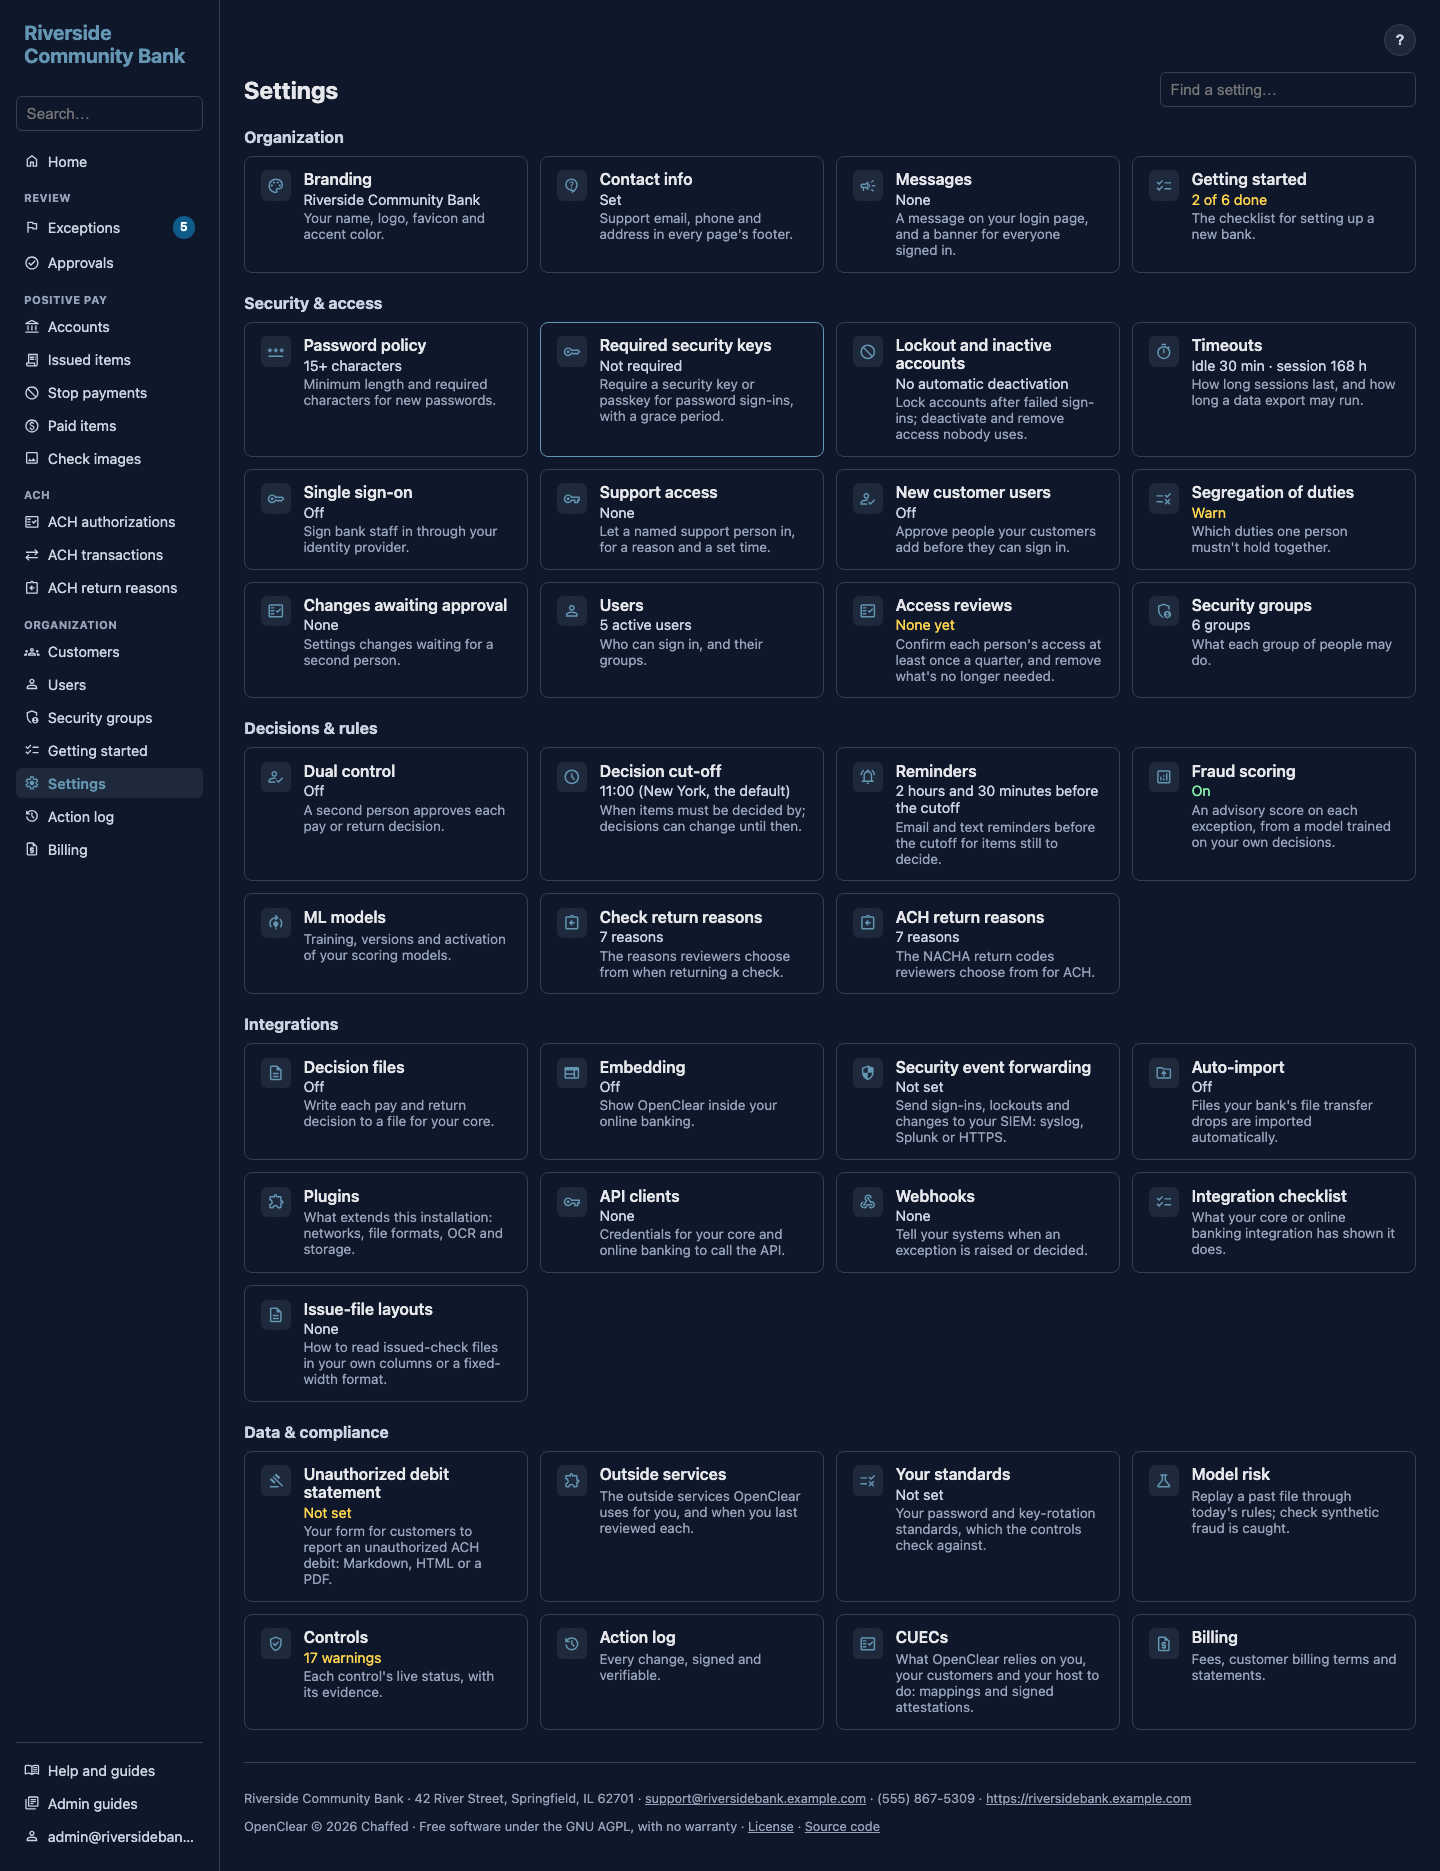
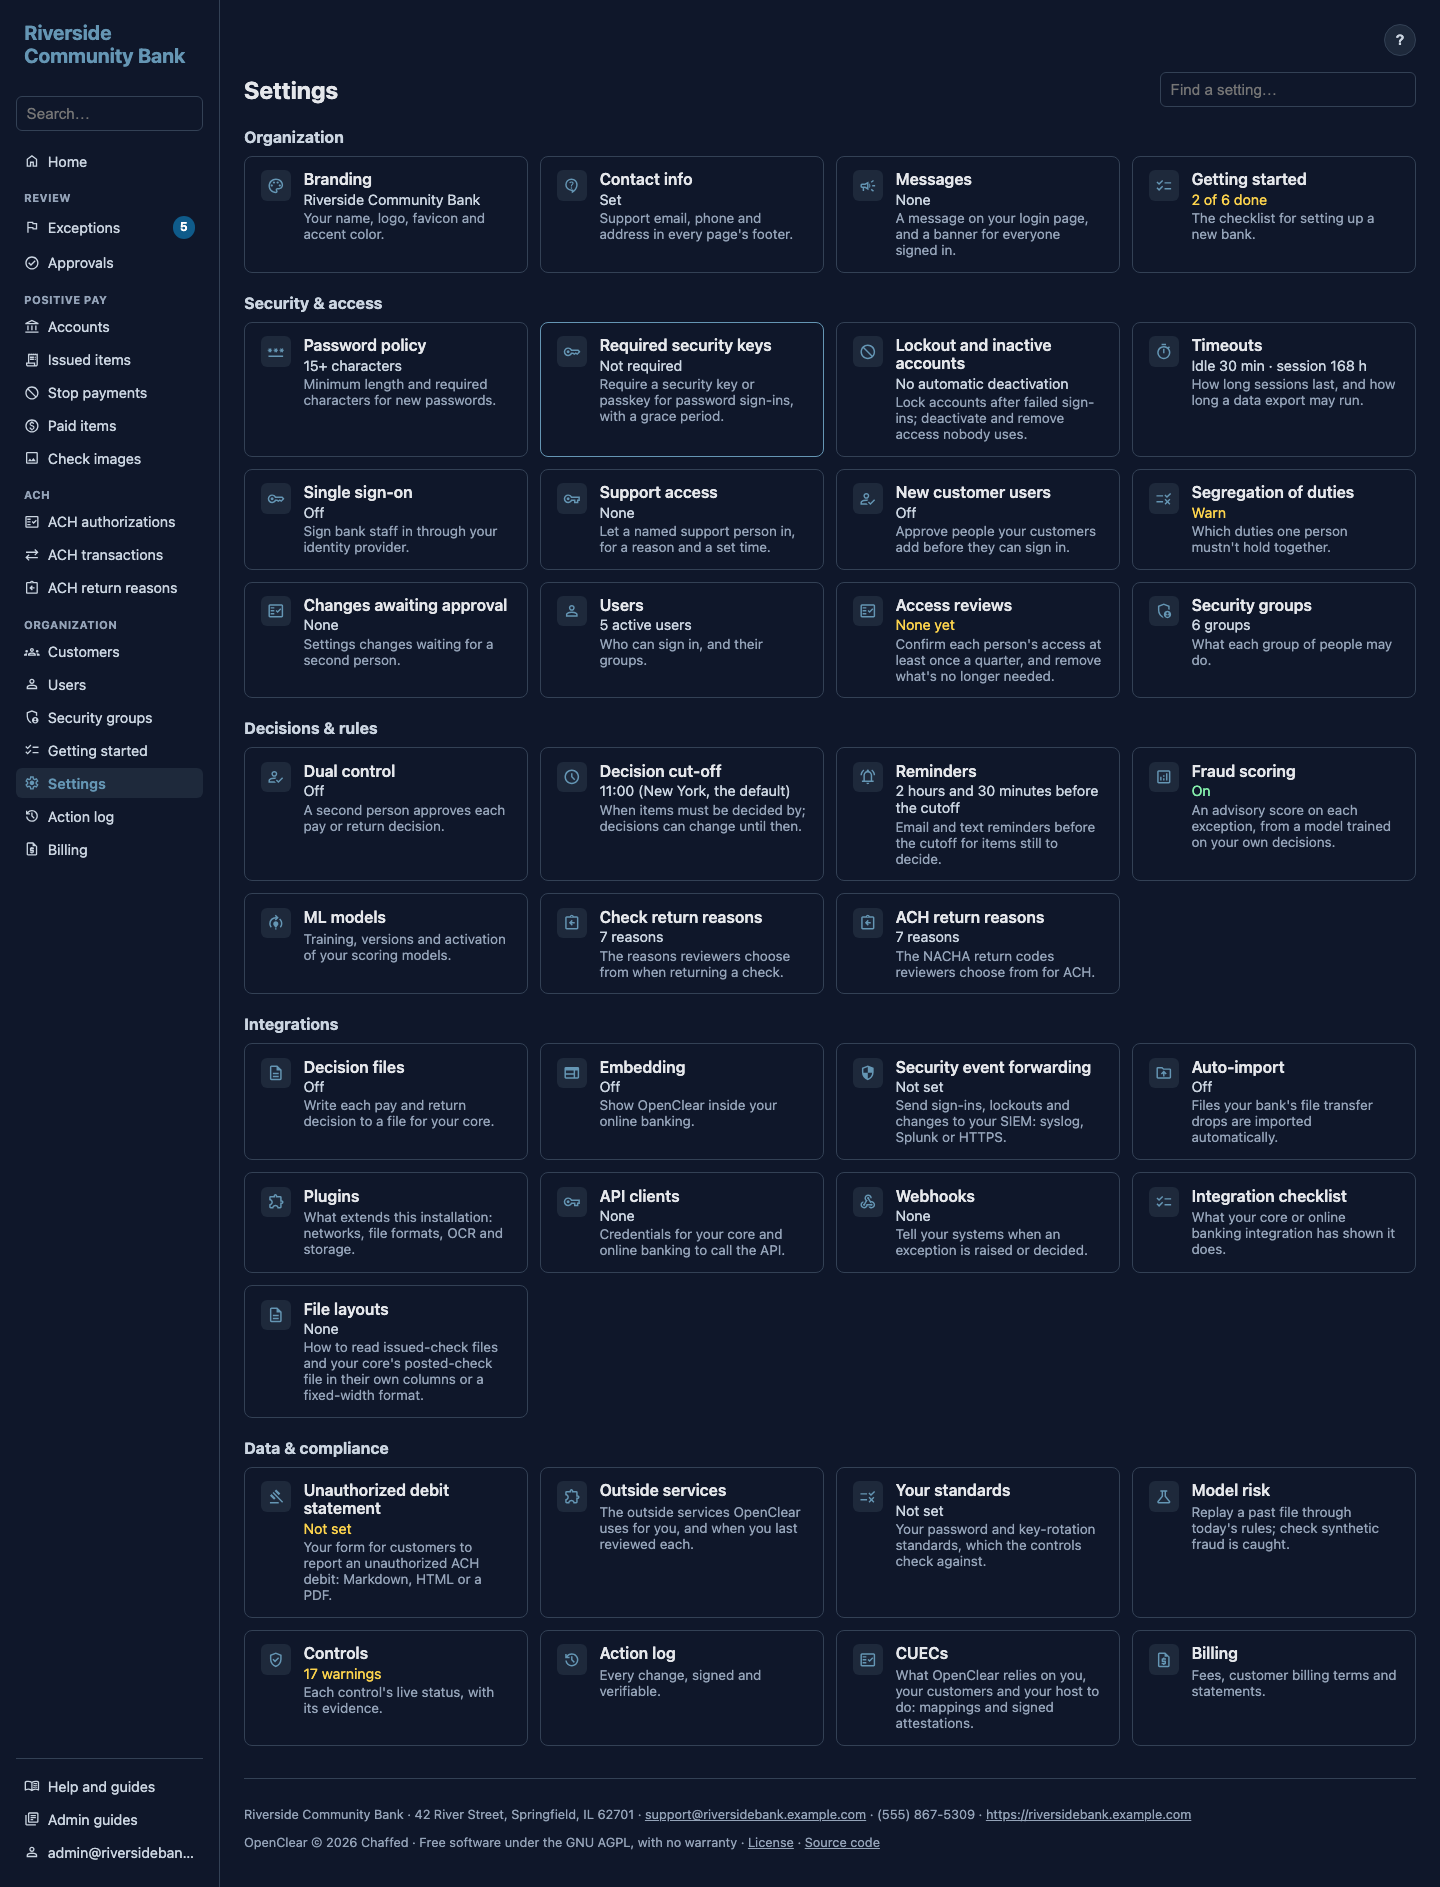
RPP3: docs for reverse positive pay; screenshots regenerated
REVERSE_POSITIVE_PAY_PLAN.md RPP3: Reviewing your checks in the customer's exceptions guide,
Reverse positive pay in the bank's customers-and-accounts guide, the README and the CHANGELOG.

diff --git a/src/openclear/templates/docs/admin/customers-accounts.html b/src/openclear/templates/docs/admin/customers-accounts.html
@@ -39,4 +39,23 @@ it), so even a bank deciding in real time has decisions that lock at a set time 
   <li><strong>Add an account</strong> — from <a href="/ui/accounts">Accounts</a>, create a
   single account under a customer, or use bulk upload to add several at once.</li>
 </ul>
+
+<h2 id="reverse-positive-pay">Reverse positive pay</h2>
+<p>For a customer who doesn't send an issued-check file, put the account on reverse positive pay:
+every check presented on it becomes an item for the customer to review (<em>To review</em>), the
+customer returns the ones they don't recognise by the cut-off, and the rest are paid. A check with a
+real problem (a stop, a duplicate, a void) still shows as that problem and follows the customer's
+default decision, so it's never paid by silence.</p>
+<ol>
+  <li>Agree it with the customer in writing first, including that unreturned checks are paid (bank
+    CUEC B-CA-3-02). The control check <em>Reverse positive pay agreed</em> lists the accounts on it,
+    and those put on it in the last 30 days, for you to match against your agreements.</li>
+  <li>On the customer's page, in Accounts, choose the account's <strong>Checks</strong> setting, then
+    <strong>Reverse positive pay</strong>. Only your administrators can. It's a protected change:
+    when your bank asks for a second administrator, it waits for one. Putting the account back on
+    positive pay takes effect at once.</li>
+  <li>Integrations can set it too: <code>check_review_mode</code> in
+    <code>PUT /api/v1/accounts/{account_number}</code> (it answers 202 while it waits for approval).</li>
+</ol>
+<p>Checks only for now. To review every ACH debit on an account, give it no ACH authorizations.</p>
 {% endblock %}

diff --git a/src/openclear/templates/docs/end_user/exceptions.html b/src/openclear/templates/docs/end_user/exceptions.html
@@ -34,6 +34,21 @@ decisions and is advisory only; items without enough history say "Not scored yet
 default disposition applies, <strong>Decide by</strong> shows the deadline in your local
 time and what happens if nobody decides in time.</p>
 
+<h2 id="reviewing-your-checks">Reviewing your checks (reverse positive pay)</h2>
+<p>If your bank has put an account on <strong>reverse positive pay</strong>, you don't send a
+file of the checks you write. Instead every check presented on that account comes to you,
+marked <strong>To review</strong>:</p>
+<ul>
+  <li><strong>Return</strong> any check you don't recognise, with a reason, before the cut-off.</li>
+  <li>Every check you don't return is <strong>paid at the cut-off</strong>. To pay them sooner,
+    use <strong>Pay all to review</strong> at the top of Exceptions: it shows how many first.</li>
+  <li>A check with a real problem (a stop payment, already paid, a voided check) is shown as that
+    problem, not as To review. It's never paid just because nobody returned it: it follows your
+    default decision.</li>
+</ul>
+<p>You get a reminder before the cut-off with how many checks are waiting, rather than an email for
+each one. Your dashboard shows the checks to review apart from items with a problem.</p>
+
 <h2>How to</h2>
 <ul>
   <li><strong>Decide</strong>: choose Pay or Return. Nothing is pre-selected, so an item is

diff --git a/CHANGELOG.md b/CHANGELOG.md
@@ -2,6 +2,18 @@
 
 ## Unreleased
 
+- **Reverse positive pay** (`REVERSE_POSITIVE_PAY_PLAN.md`). For a customer that doesn't send an
+  issued-check file, an account can be put on reverse positive pay (the customer's page →
+  Accounts → *Checks*, or `check_review_mode` in `PUT /api/v1/accounts/{account_number}`). Every
+  check presented on it is an item marked *To review* (exception type `review`); the customer
+  returns the ones they don't recognise, and the rest are paid at the cut-off ("Not returned by
+  the cut-off"). A check with a real problem (a stop, a duplicate, a void) shows as that problem
+  and follows the customer's default decision, so it's never paid by silence. Turning reverse on
+  is a protected change for the bank's administrators, answered with `202` by the API while it
+  waits. Exceptions offers *Pay all N to review*; checks only to review get the reminder before
+  the cut-off instead of an email each, and the customer's dashboard counts them apart. New bank
+  CUEC B-CA-3-02, control OC-SI-08 and check *Reverse positive pay agreed*.
+
 - **Your core's posted-check file, read as it comes** (`PAID_ITEM_LAYOUTS_PLAN.md`). Settings →
   *File layouts* (formerly *Issue-file layouts*) has a *Posted checks* tab, for the bank's staff:
   a layout for the file of checks the core posts, fixed-width or delimited, built from a sample.

diff --git a/README.md b/README.md
@@ -290,6 +290,15 @@ array, not a file):
   entry by entry against Moov's open source ACH implementation on its sample files
   (`tests/fixtures/moov-ach/`).
 
+- **Reverse positive pay** (REVERSE_POSITIVE_PAY_PLAN.md): an account's `check_review_mode`
+  is `positive` (match against the issued file) or `reverse`, for a customer with no issued
+  file: every presented check is an item `review` ("To review"), the customer returns what
+  they don't recognise, and a check whose only type is `review` is paid at the cut-off. A real
+  problem (stop, duplicate, void) shows as itself and follows the customer's default. Turning
+  reverse on is a protected change (`account.check_review_mode`); Exceptions pays every check to
+  review at once, and review-only checks get the reminder before the cut-off rather than an
+  email each.
+
 - **Layouts** (`bulk_import/layouts.py`): a file in its own format, described once in
   Settings → File layouts. Issued checks, in a customer's own (or the bank's) format; and the
   posted-check file the bank's core sends (PAID_ITEM_LAYOUTS_PLAN.md), built by the bank's

diff --git a/REVERSE_POSITIVE_PAY_PLAN.md b/REVERSE_POSITIVE_PAY_PLAN.md
@@ -122,4 +122,6 @@ sequenceDiagram
   B-CA-3-02, control OC-SI-08 and the check `reverse_accounts_agreed`. Postgres: a return at the
   cut-off isn't paid over (`test_reverse_cutoff_concurrency.py`). The ACH authorizations help says
   how to review every debit (RPP-D5).
+- 2026-10-22: RPP3 written: *Reviewing your checks* in the customer's exceptions guide, *Reverse positive
+  pay* in the bank's customers-and-accounts guide, the README and the CHANGELOG. M2 is done.
 
